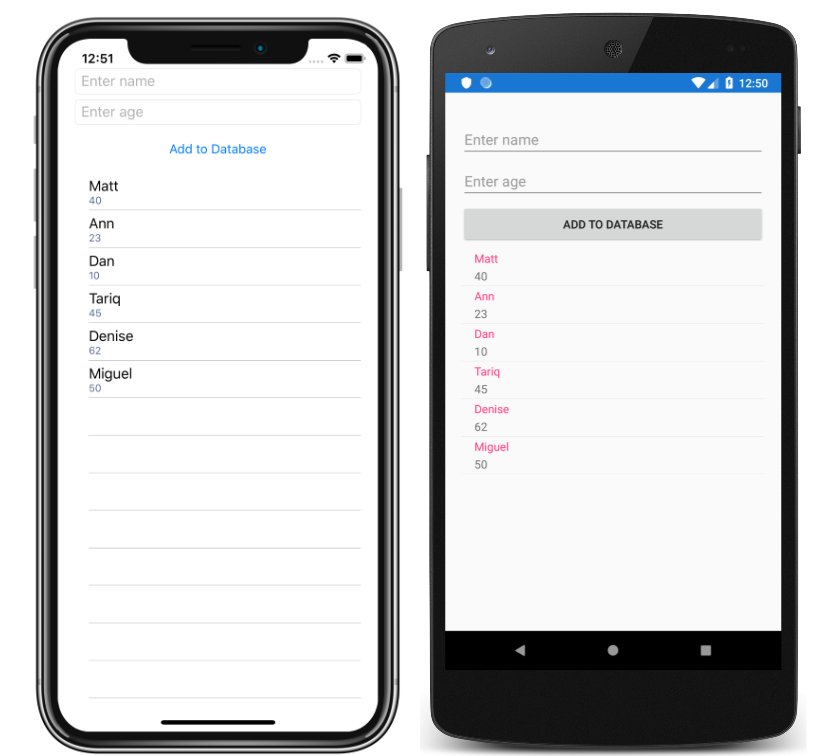
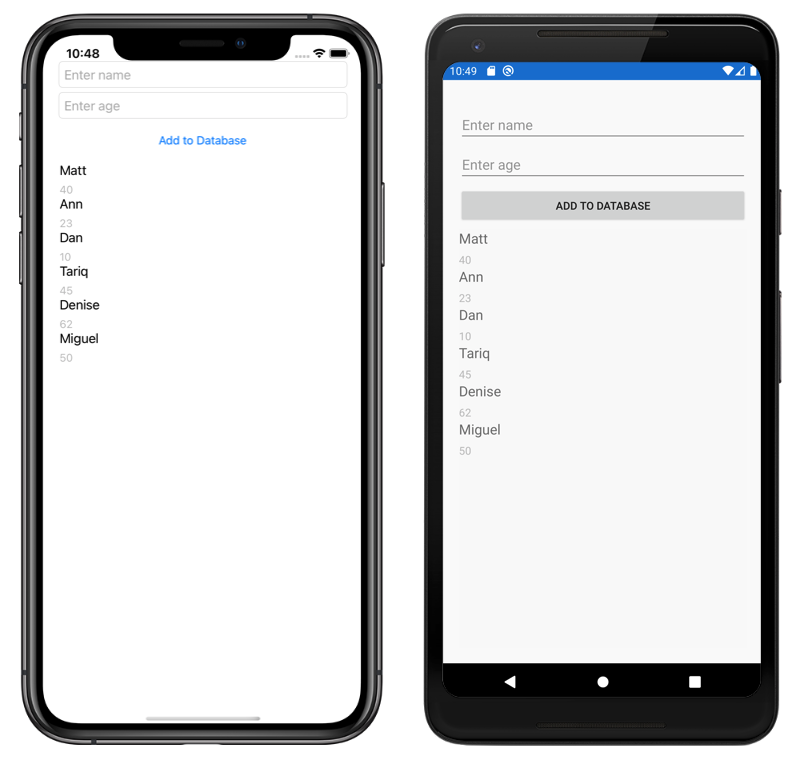
Replaced ListView with CollectionView.

Changed region(s): [[0.0, 0.0, 1.0, 1.0], [0.1875, 0.1825, 0.3125, 0.213]]

diff --git a/GetStarted/Tutorials/LocalDatabaseTutorial/LocalDatabaseTutorial/MainPage.xaml b/GetStarted/Tutorials/LocalDatabaseTutorial/LocalDatabaseTutorial/MainPage.xaml
@@ -9,13 +9,18 @@
                Placeholder="Enter age" />
         <Button Text="Add to Database"
                 Clicked="OnButtonClicked" />
-        <ListView x:Name="listView">
-            <ListView.ItemTemplate>
+        <CollectionView x:Name="collectionView">
+            <CollectionView.ItemTemplate>
                 <DataTemplate>
-                    <TextCell Text="{Binding Name}"
-                              Detail="{Binding Age}" />
+                    <StackLayout>
+                        <Label Text="{Binding Name}"
+                               FontSize="Medium" />
+                        <Label Text="{Binding Age}"
+                               TextColor="Silver"
+                               FontSize="Small" />
+                    </StackLayout>
                 </DataTemplate>
-            </ListView.ItemTemplate>
-        </ListView>
+            </CollectionView.ItemTemplate>
+        </CollectionView>
     </StackLayout>
 </ContentPage>

diff --git a/GetStarted/Tutorials/LocalDatabaseTutorial/LocalDatabaseTutorial/MainPage.xaml.cs b/GetStarted/Tutorials/LocalDatabaseTutorial/LocalDatabaseTutorial/MainPage.xaml.cs
@@ -13,7 +13,7 @@ namespace LocalDatabaseTutorial
         protected override async void OnAppearing()
         {
             base.OnAppearing();
-            listView.ItemsSource = await App.Database.GetPeopleAsync();
+            collectionView.ItemsSource = await App.Database.GetPeopleAsync();
         }
 
         async void OnButtonClicked(object sender, EventArgs e)
@@ -27,7 +27,7 @@ namespace LocalDatabaseTutorial
                 });
 
                 nameEntry.Text = ageEntry.Text = string.Empty;
-                listView.ItemsSource = await App.Database.GetPeopleAsync();
+                collectionView.ItemsSource = await App.Database.GetPeopleAsync();
             }
         }
     }
